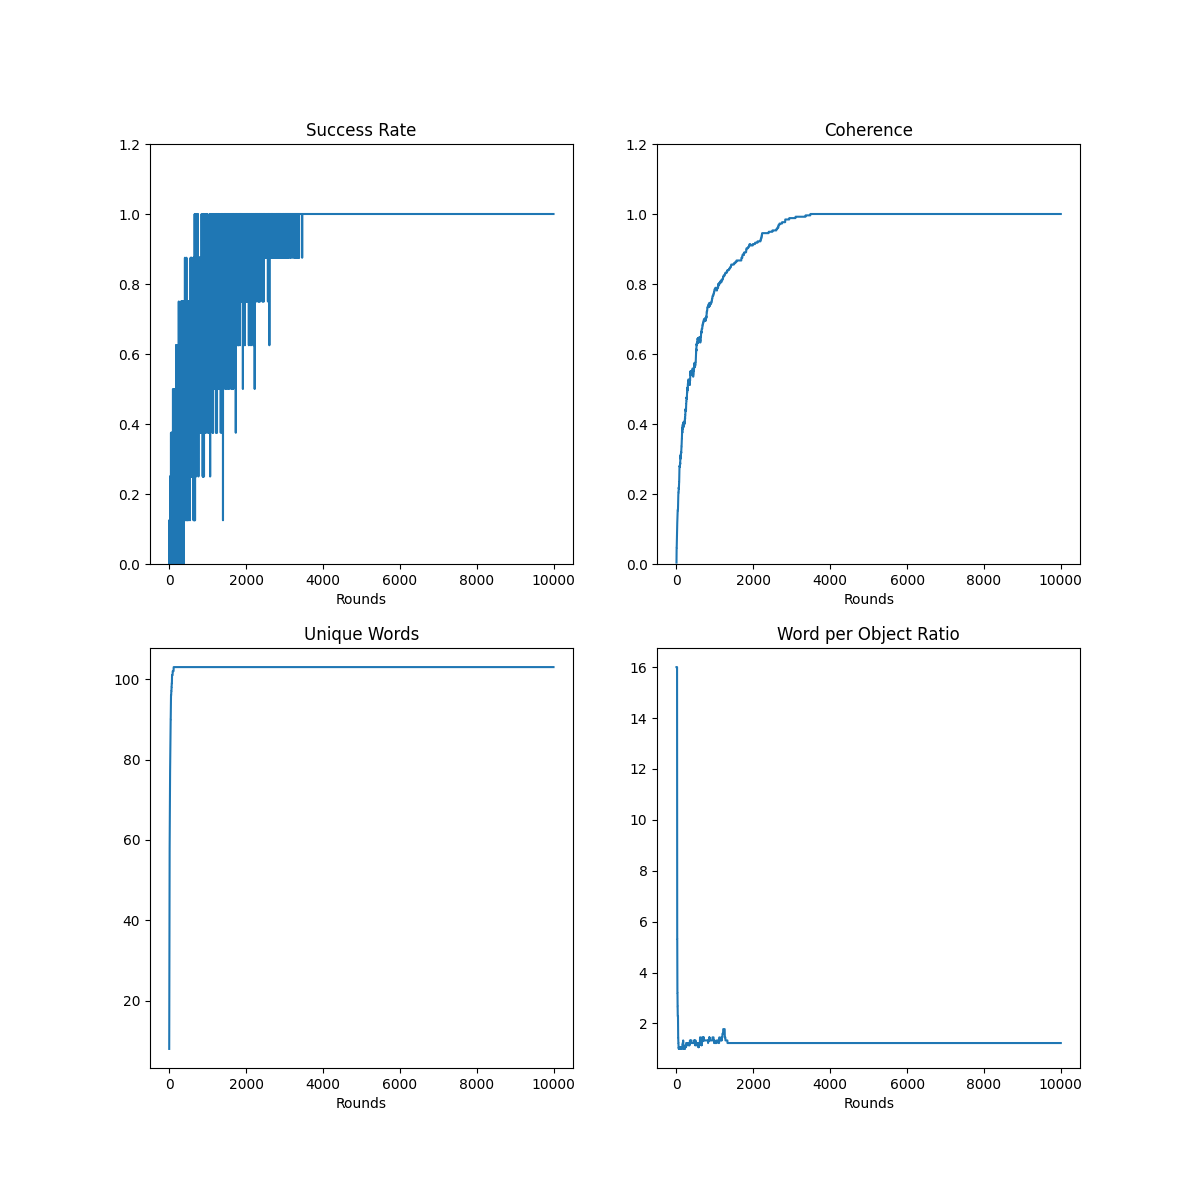
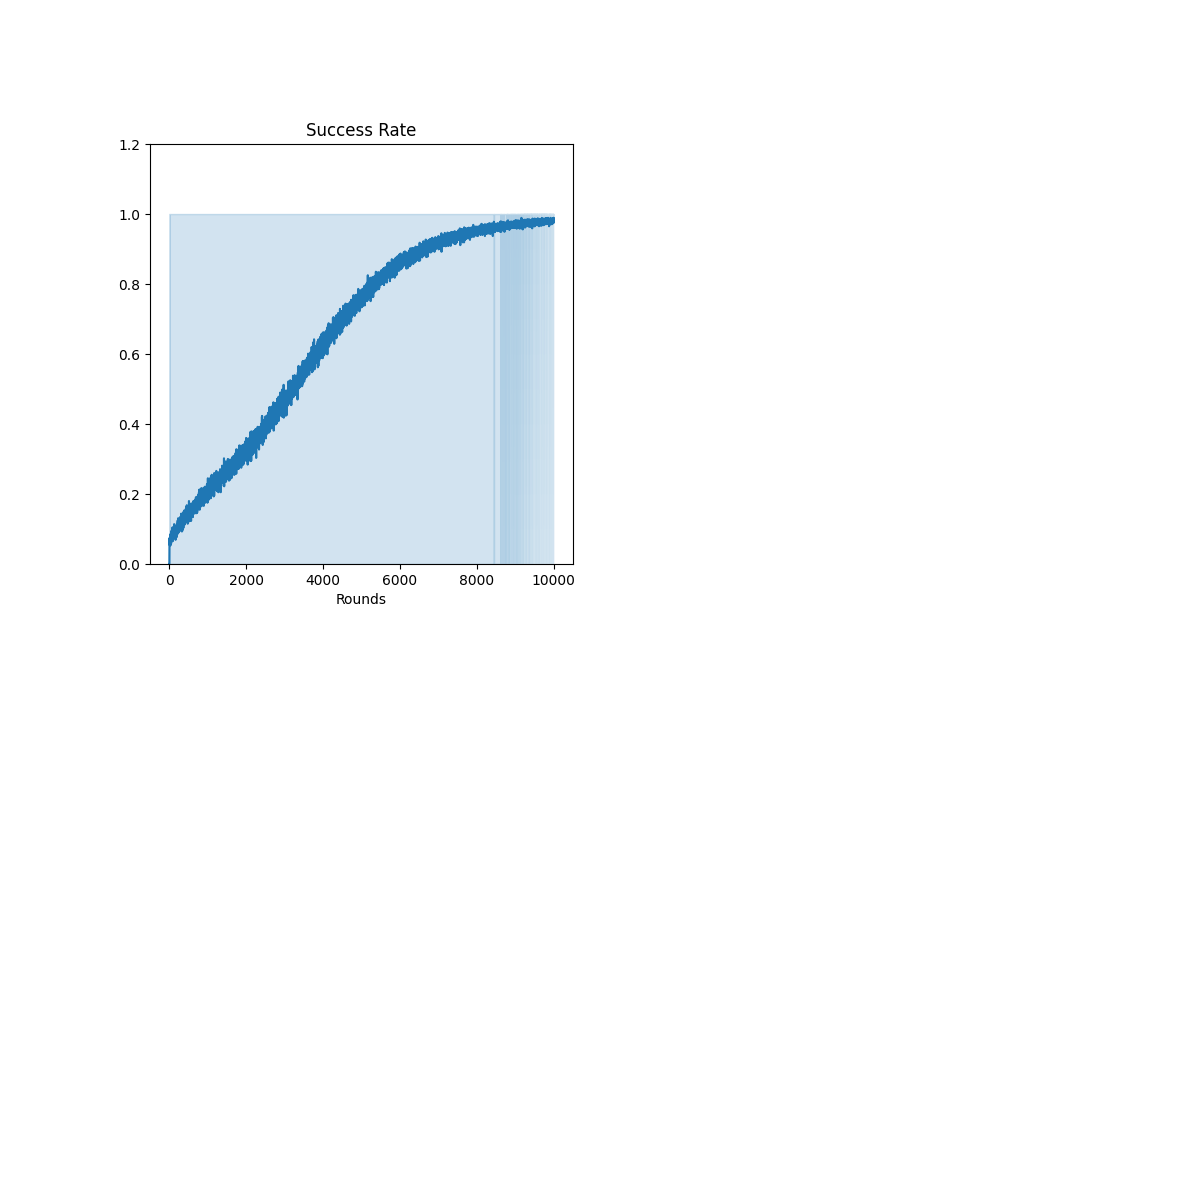
working game

diff --git a/games/base_game.py b/games/base_game.py
@@ -1,6 +1,7 @@
 import torch
-import tqdm
 import matplotlib.pyplot as plt
+import tqdm
+import numpy as np
 
 
 class BaseGame:
@@ -10,9 +11,8 @@ class BaseGame:
         agents=100,
         objects=100,
         memory=5,
-        vocab_size=2**16,  # 2 bytes
+        vocab_size=2**15,  # 2 bytes signed, change to uint if using cuda
         prune_step=50,
-        max_agent_pairs=None,
         context_size=(1, 3),
         device=torch.device("cpu"),
     ) -> None:
@@ -25,13 +25,16 @@ class BaseGame:
         self.game_instances = game_instances
         self.context_size = context_size
         self.device = device
-        self.successful_communications = 0
         self.fig_prefix = "base_game"
+
+        self.successful_communications = torch.zeros(
+            self.game_instances, device=self.device
+        )
 
         # n_agents, n_objects, memory that holds: (word_id, count)
         self.state = torch.zeros(
             (game_instances, agents, objects, memory, 2),
-            dtype=torch.uint16,
+            dtype=torch.int16,
             device=self.device,
         )
 
@@ -40,21 +43,15 @@ class BaseGame:
                 f"Max context size {self.context_size[1]} cannot be larger than number of objects {self.objects}"
             )
 
-        self.weights = torch.ones(self.agents, device=self.device)
         self.instance_ids = torch.arange(game_instances, device=self.device)
 
     def choose_agents(self):
-        """
-        Sequential Sampling:
-        Selects 1 Speaker and 1 Hearer uniformly at random.
-        Constraint: Speaker != Hearer.
-        """
-        indices = torch.multinomial(self.weights, num_samples=2, replacement=False)
+        scores = torch.rand((self.game_instances, self.agents), device=self.device)
+        pairs = torch.topk(scores, 2, dim=1).indices  # Shape: (num_instances, 2)
+        speakers = pairs[:, 0]  # (num_instances,)
+        hearers = pairs[:, 1]  # (num_instances,)
 
-        speaker = indices[0].unsqueeze(0)  # Shape: (1,)
-        hearer = indices[1].unsqueeze(0)  # Shape: (1,)
-
-        return speaker, hearer
+        return speakers, hearers
 
     def generate_context(self) -> torch.Tensor:
         n = self.game_instances
@@ -99,7 +96,7 @@ class BaseGame:
 
     def gen_words(self, n) -> torch.Tensor:
         return torch.randint(
-            1, self.vocab_size, (n,), device=self.device, dtype=torch.float16
+            1, self.vocab_size, (n,), device=self.device, dtype=torch.int16
         )
 
     def get_words_from_speakers(self, speakers, contexts) -> torch.Tensor:
@@ -142,7 +139,9 @@ class BaseGame:
 
         """
 
-        self.successful_communications = 0
+        self.successful_communications = torch.zeros_like(
+            self.successful_communications
+        )
 
         objects_from_context = self.choose_object_from_context(contexts)
 
@@ -200,6 +199,10 @@ class BaseGame:
             best_object_idx = best_flat_idx // self.memory
             best_memory_idx = best_flat_idx % self.memory
 
+            self.successful_communications = (topics == best_object_idx).to(
+                torch.float32
+            )
+
             # Damp everything by -1 (clamped at 0)
             self.state[
                 self.instance_ids[found_per_hearer],
@@ -240,26 +243,18 @@ class BaseGame:
 
     def prune_memory(self):
 
-        non_zero = self.state[:, :, :, 1] != 0
+        non_zero = self.state[:, :, :, :, 1] != 0
 
         self.state *= non_zero.unsqueeze(-1)
 
-    def unique_words_per_object(self) -> torch.Tensor:
-        return torch.tensor(len(self.unique_words), device=self.device)
-
     def success_rate(self) -> torch.Tensor:
-        n_communications = self.n_pairs
-        if n_communications == 0:
-            return torch.tensor(0.0, device=self.device)
-
-        return torch.tensor(
-            self.successful_communications / n_communications, device=self.device
-        )
+        return self.successful_communications
 
     def coherence(self) -> torch.Tensor:
         tensor_agents = torch.tensor(self.agents, device=self.device)
-        top_word_index = self.state[:, :, :, 1].argmax(dim=-1)  # (agents, objects)
+        top_word_index = self.state[:, :, :, :, 1].argmax(dim=-1)  # (agents, objects)
         top_words = self.state[
+            self.instance_ids.unsqueeze(1),
             torch.arange(self.agents, device=self.device).unsqueeze(1),
             torch.arange(self.objects, device=self.device).unsqueeze(0),
             top_word_index,
@@ -304,13 +299,13 @@ class BaseGame:
 
     def play(self, rounds: int = 1) -> None:
 
-        self.stats = torch.zeros((4, rounds), dtype=torch.float32)
+        self.stats = torch.zeros((4, rounds, self.game_instances), dtype=torch.float32)
 
-        # progress = tqdm.tqdm(, desc="Playing rounds", position=3)
-        for i in range(rounds):
+        progress = tqdm.tqdm(range(rounds), desc="Playing rounds", position=3)
+        for i in progress:
             self.step(i)
 
-            # self.stats[0, i] = self.success_rate()
+            self.stats[0, i] = self.success_rate()
             # self.stats[1, i] = self.coherence()
             # self.stats[2, i] = self.unique_words_per_object().float()
             # self.stats[3, i] = self.count_polysems().float()
@@ -324,31 +319,40 @@ class BaseGame:
             # )
 
     def plot_stats(self) -> None:
-        rounds = self.stats.size(1)
+        rounds = self.stats.shape[1]
         x = torch.arange(rounds).cpu().numpy()
+
+        def mean_q(metric_idx):
+            data = self.stats[metric_idx]  # shape (steps, iters)
+            mean = data.mean(axis=-1)
+            lo = np.percentile(data, 2.5, axis=1)
+            hi = np.percentile(data, 97.5, axis=1)
+            return mean, lo, hi
 
         plt.figure(figsize=(12, 12))
 
         plt.subplot(2, 2, 1)
-        plt.plot(x, self.stats[0].cpu().numpy())
+        mean, lo, hi = mean_q(0)
+        plt.plot(x, mean.cpu().numpy(), color="C0")
+        plt.fill_between(x, lo, hi, color="C0", alpha=0.2)
         plt.title("Success Rate")
         plt.xlabel("Rounds")
         plt.ylim(0, 1.2)
 
-        plt.subplot(2, 2, 2)
-        plt.plot(x, self.stats[1].cpu().numpy())
-        plt.title("Coherence")
-        plt.xlabel("Rounds")
-        plt.ylim(0, 1.2)
+        # plt.subplot(2, 2, 2)
+        # plt.plot(x, self.stats[1].cpu().numpy())
+        # plt.title("Coherence")
+        # plt.xlabel("Rounds")
+        # plt.ylim(0, 1.2)
 
-        plt.subplot(2, 2, 3)
-        plt.plot(x, self.stats[2].cpu().numpy())
-        plt.title("Unique Words")
-        plt.xlabel("Rounds")
+        # plt.subplot(2, 2, 3)
+        # plt.plot(x, self.stats[2].cpu().numpy())
+        # plt.title("Unique Words")
+        # plt.xlabel("Rounds")
 
-        plt.subplot(2, 2, 4)
-        plt.plot(x, self.stats[3].cpu().numpy())
-        plt.title("Word per Object Ratio")
-        plt.xlabel("Rounds")
+        # plt.subplot(2, 2, 4)
+        # plt.plot(x, self.stats[3].cpu().numpy())
+        # plt.title("Word per Object Ratio")
+        # plt.xlabel("Rounds")
 
         plt.savefig(f"plots/{self.fig_prefix}_stats.png")

diff --git a/main.py b/main.py
@@ -14,17 +14,16 @@ def test_games():
     print(f"Using device: {device}")
 
     game = BaseGame(
+        10000,
         16,
         16,
         memory=50,
         device=device,
-        vocab_size=2**8,
-        # max_agent_pairs=1,
-        context_size=(2, 5),
+        context_size=(2, 3),
     )
 
     game.play(10000)
-    # game.plot_stats()
+    game.plot_stats()
 
     # fuzzy_object_game = FuzzyObjectGame(
     #     game_instances=1,
